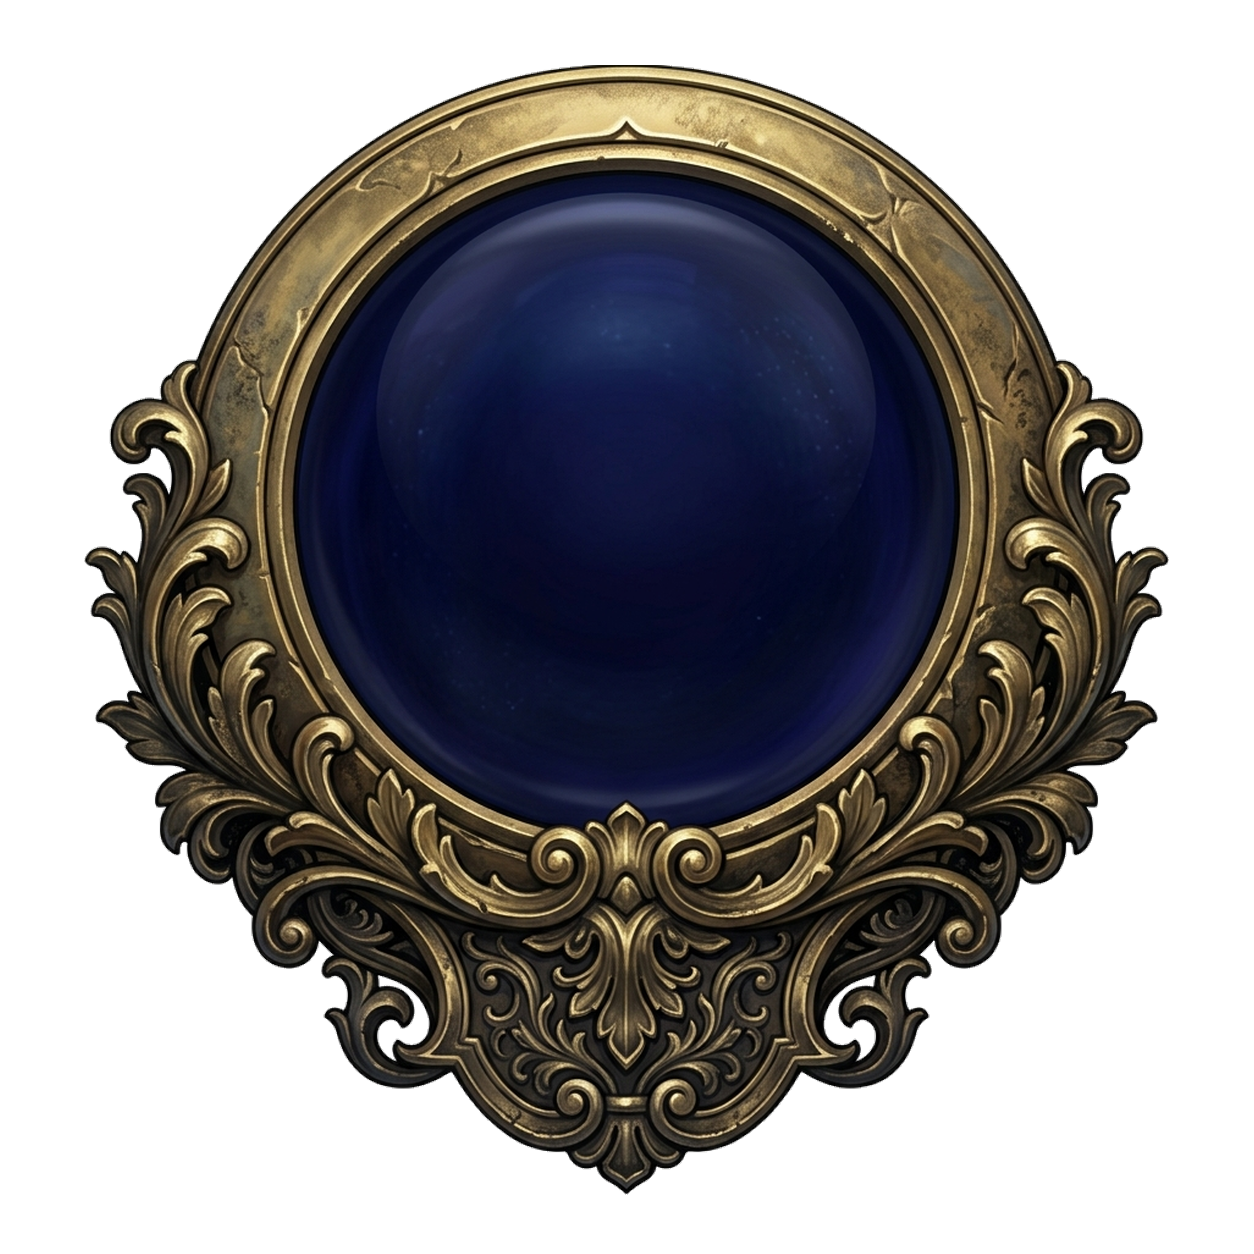
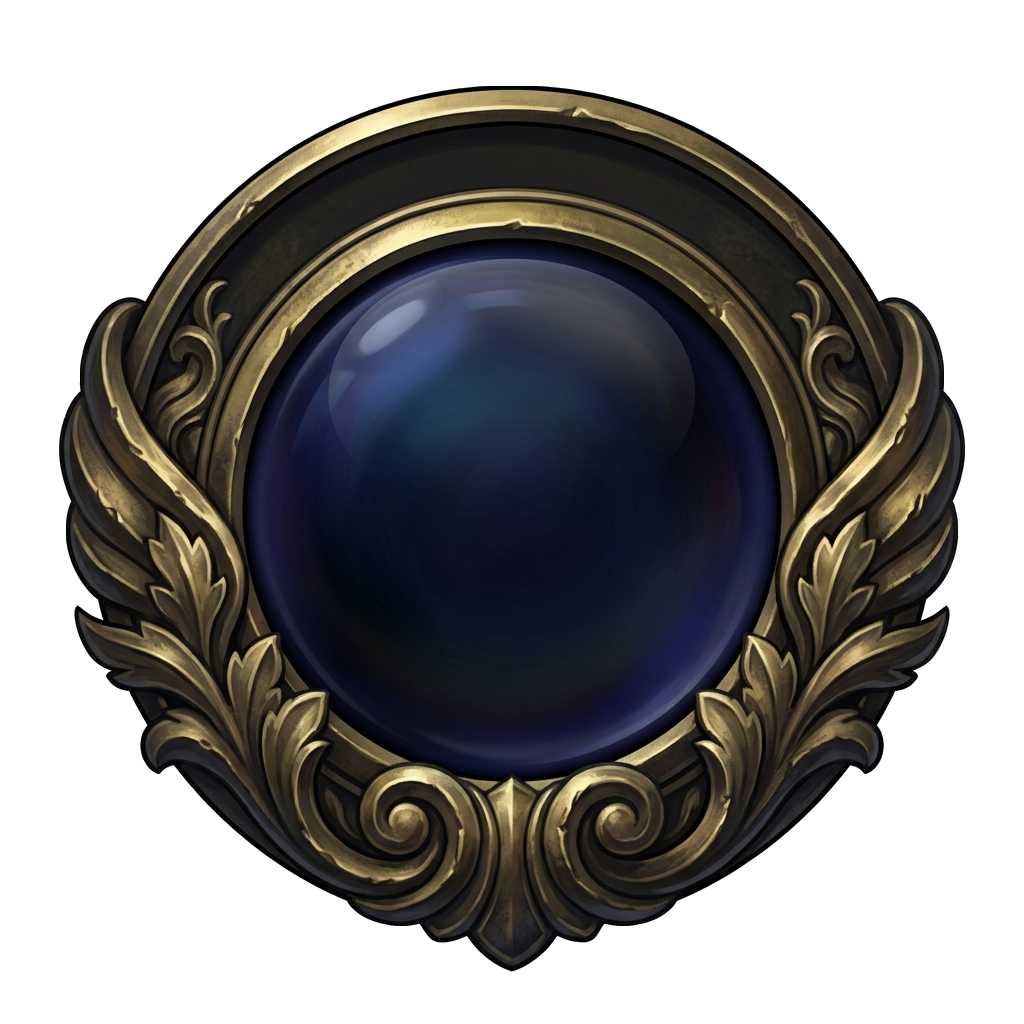
feat: FactionBarの装飾を改善し、バーの幅と高さを調整可能にした

diff --git a/demo/entries/FactionBarEntry.tsx b/demo/entries/FactionBarEntry.tsx
@@ -20,6 +20,8 @@ export default function FactionBarEntry() {
   const [backdrop, setBackdrop] = useState('dark')
   const [barHeight, setBarHeight] = useState(56)
   const [orbSize, setOrbSize] = useState(88)
+  const [fitContent, setFitContent] = useState(true)
+  const [barWidth, setBarWidth] = useState(720)
   const step = (delta: number) => {
     const next = (city + delta + cities.length) % cities.length
     setCity(next)
@@ -29,17 +31,23 @@ export default function FactionBarEntry() {
     stageClassName={`backdrop-${backdrop}`}
     stage={<div className="demo-top-left">
       <FactionBar faction={FACTIONS[factionId]} movable={movable} position={position} onPositionChange={setPosition}
-        style={{ '--faction-bar-height': `${barHeight}px`, '--faction-orb-size': `${orbSize}px` } as CSSProperties}
+        style={{ width: fitContent ? 'max-content' : barWidth, '--faction-bar-height': `${barHeight}px`, '--faction-orb-size': `${orbSize}px` } as CSSProperties}
         summary={withSummary ? { gold, goldForecast: forecast, production, troops } : undefined}
         cityName={cities[city]!} cityPosition={{ index: city, count: cities.length }} onPrevCity={() => step(-1)} onNextCity={() => step(1)} />
     </div>}
     controls={<>
       <h2>勢力の情報</h2>
       <p>左端の球をドラッグするとバー全体が動きます。球にフォーカスして矢印キーでも移動できます。Shiftで1pxずつ微調整、Homeで元の位置に戻ります。</p>
-      <label htmlFor="faction-bar-height">バー部分の高さ（px）</label>
-      <input id="faction-bar-height" type="number" min={52} max={160} value={barHeight} onChange={event => {
+      <label className="checkbox"><input type="checkbox" checked={fitContent} onChange={event => setFitContent(event.target.checked)} />内容に幅を合わせる</label>
+      <label htmlFor="faction-bar-width">バー全体の幅（px）</label>
+      <input id="faction-bar-width" type="number" min={240} max={1600} disabled={fitContent} value={barWidth} onChange={event => {
         const value = event.target.valueAsNumber
-        if (Number.isFinite(value)) setBarHeight(Math.max(52, Math.min(160, value)))
+        if (Number.isFinite(value)) setBarWidth(Math.max(240, Math.min(1600, value)))
+      }} />
+      <label htmlFor="faction-bar-height">バー部分の高さ（px）</label>
+      <input id="faction-bar-height" type="number" min={68} max={160} value={barHeight} onChange={event => {
+        const value = event.target.valueAsNumber
+        if (Number.isFinite(value)) setBarHeight(Math.max(68, Math.min(160, value)))
       }} />
       <label htmlFor="faction-orb-size">球の装飾サイズ（px）</label>
       <input id="faction-orb-size" type="number" min={64} max={128} value={orbSize} onChange={event => {

diff --git a/tests/faction-bar.spec.ts b/tests/faction-bar.spec.ts
@@ -31,9 +31,8 @@ test('navigation does not drag the bar, and its decorative image decodes', async
   const initial = await bar.boundingBox()
   await page.getByRole('button', { name: '次の都市', exact: true }).click()
   expect(await bar.boundingBox()).toEqual(initial)
-  const imageWidth = await bar.locator('.norden-faction-bar-ribbon').evaluate(async element => {
-    const source = getComputedStyle(element, '::before').borderImageSource
-    const url = source.match(/^url\(["']?(.*?)["']?\)$/)?.[1]
+  const imageWidth = await bar.locator('.norden-faction-bar-cap.is-right image').evaluate(async element => {
+    const url = element.getAttribute('href')
     if (!url) return 0
     const image = new Image()
     image.src = url
@@ -43,6 +42,33 @@ test('navigation does not drag the bar, and its decorative image decodes', async
   expect(imageWidth).toBeGreaterThan(0)
   await page.getByLabel('球をドラッグして移動する').uncheck()
   await expect(page.getByRole('button', { name: 'カルタ書院のバーを移動' })).toBeDisabled()
+})
+
+test('only the middle stretches when ribbon width changes, while both caps retain their proportions', async ({ page }) => {
+  await page.goto('/#faction-bar')
+  const bar = page.getByRole('group', { name: '勢力', exact: true })
+  const left = bar.locator('.norden-faction-bar-cap.is-left')
+  const right = bar.locator('.norden-faction-bar-cap.is-right')
+  await page.getByLabel('内容に幅を合わせる').uncheck()
+  for (const height of [56, 120]) {
+    await page.getByLabel('バー部分の高さ（px）').fill(String(height))
+    let firstMiddleWidth: number | undefined
+    for (const width of [500, 640, 800]) {
+      await page.getByLabel('バー全体の幅（px）').fill(String(width))
+      await expect(bar).toHaveCSS('width', `${width}px`)
+      const leftBounds = (await left.boundingBox())!
+      const rightBounds = (await right.boundingBox())!
+      expect(leftBounds.height).toBe(height)
+      expect(rightBounds.height).toBe(height)
+      expect(leftBounds.width / leftBounds.height).toBeCloseTo(102 / 333, 2)
+      expect(rightBounds.width / rightBounds.height).toBeCloseTo(313 / 333, 2)
+      const middle = (await bar.locator('.norden-faction-bar-middle').boundingBox())!
+      expect(leftBounds.x + leftBounds.width).toBeCloseTo(middle.x, 1)
+      expect(middle.x + middle.width).toBeCloseTo(rightBounds.x, 1)
+      if (firstMiddleWidth !== undefined) expect(middle.width).toBeGreaterThan(firstMiddleWidth)
+      else firstMiddleWidth = middle.width
+    }
+  }
 })
 
 test('ribbon height changes independently of the round orb and retains vertical content padding', async ({ page }) => {

diff --git a/src/components/hud/FactionBar.css b/src/components/hud/FactionBar.css
@@ -1,6 +1,6 @@
-/* The fixed-aspect orb overlaps a separate ribbon that can grow in either axis. */
+/* The round orb and the ribbon's end ornaments keep their own aspect ratios. */
 .norden-faction-bar {
-  --faction-bar-height: 56px;
+  --faction-bar-height: 68px;
   --faction-orb-size: 88px;
   position: relative;
   isolation: isolate;
@@ -18,21 +18,30 @@
 }
 .norden-faction-bar-ribbon {
   position: relative;
+  flex: 1;
   min-width: 0;
   margin-left: calc(var(--faction-orb-size) * .75);
-  padding: 0 24px 0 calc(var(--faction-orb-size) * .25 + 8px);
+  padding: 0 
+  calc(max(var(--faction-bar-height), 52px) * 313 / 333 + 8px)
+   0 
+  15px;
 }
-.norden-faction-bar-ribbon::before {
-  content: '';
+.norden-faction-bar-decoration {
   position: absolute;
-  /* Collapse the source's transparent margins into the outer 8px slices. */
-  inset: -6px 0;
+  inset: 0;
   z-index: -1;
-  border: solid transparent;
-  border-width: 8px 24px;
-  border-image: url('../../assets/ui/hud/faction-ribbon.png') 34% 10% 30% 10% fill / 8px 24px / 0 stretch;
+  display: flex;
+  align-items: stretch;
   pointer-events: none;
+  left: -15px;
 }
+.norden-faction-bar-cap { display: block; flex: none; height: 100%; width: auto; overflow: hidden; }
+.norden-faction-bar-cap.is-left { aspect-ratio: 102 / 333; }
+.norden-faction-bar-cap.is-right { aspect-ratio: 313 / 333;
+    right: 34px;
+    position: relative;
+ }
+.norden-faction-bar-middle { display: block; flex: 1; min-width: 0; width: 0; height: 100%; overflow: hidden; }
 .norden-faction-bar-content {
   box-sizing: border-box;
   display: flex;
@@ -76,8 +85,8 @@
 .norden-faction-bar-orb:focus-visible { outline: 2px solid #f4d987; outline-offset: -10px; }
 .norden-faction-bar-emblem {
   position: absolute;
-  left: 48%;
-  top: 48%;
+  left: 50%;
+  top: 50%;
   translate: -50% -50%;
   width: 42%;
   height: 46%;
@@ -104,7 +113,7 @@
   display: grid;
   grid-template: 'icon label' auto 'icon value' auto / auto auto;
   align-items: center;
-  column-gap: 6px;
+  column-gap: 10px;
   padding: 0 12px;
   white-space: nowrap;
   border-right: 1px solid #715737;

diff --git a/src/components/hud/FactionBar.tsx b/src/components/hud/FactionBar.tsx
@@ -3,6 +3,7 @@ import type { CSSProperties, KeyboardEvent, PointerEvent, ReactNode } from 'reac
 import iconGold from '../../assets/ui/icons/icon-gold.png'
 import iconProduction from '../../assets/ui/icons/icon-production.png'
 import iconTroops from '../../assets/ui/icons/icon-military.png'
+import ribbon from '../../assets/ui/hud/faction-ribbon.png'
 import type { FactionSummaryView, FactionView } from '../../screens/types'
 import './FactionBar.css'
 
@@ -27,6 +28,21 @@ export interface FactionBarProps {
 }
 
 const signed = (value: number) => `${value >= 0 ? '+' : '−'}${Math.abs(value).toLocaleString()}`
+
+/** Viewports into the supplied PNG: fixed-aspect caps and a stretchable plain middle. */
+function RibbonDecoration() {
+  return <div className="norden-faction-bar-decoration" aria-hidden="true">
+    <svg className="norden-faction-bar-cap is-left" viewBox="72 218 102 333" preserveAspectRatio="xMinYMid meet" focusable="false">
+      <image href={ribbon} width="1376" height="768" />
+    </svg>
+    <svg className="norden-faction-bar-middle" viewBox="174 218 850 333" preserveAspectRatio="none" focusable="false">
+      <image href={ribbon} width="1376" height="768" />
+    </svg>
+    <svg className="norden-faction-bar-cap is-right" viewBox="1024 218 313 333" preserveAspectRatio="xMaxYMid meet" focusable="false">
+      <image href={ribbon} width="1376" height="768" />
+    </svg>
+  </div>
+}
 
 function Stat({ label, icon, value, title, children }: { label: string; icon: string; value: number; title?: string; children?: ReactNode }) {
   return (
@@ -98,6 +114,7 @@ export default function FactionBar({ faction, summary, cityName, onPrevCity, onN
         <span className="norden-faction-bar-glass" aria-hidden="true" />
       </button>
       <div className="norden-faction-bar-ribbon">
+        <RibbonDecoration />
         <div className="norden-faction-bar-content">
           {summary && <>
             <Stat label="金" icon={iconGold} value={summary.gold}

diff --git a/docs/faction-bar-assets.md b/docs/faction-bar-assets.md
@@ -1,21 +1,29 @@
 # 勢力の球体バー
 
-現在の素材（組み込み `image_gen` で生成）:
+現在の素材は、ユーザーが Gemini で作成して差し替えた画像を使用する。以下の分割は差し替え後の画像に合わせている。
 
 - `src/assets/ui/hud/faction-orb-compact.png`: 上部の彫刻を球の縁に沿わせた、コンパクトな球の装飾。正方形のまま描画する。
-- `src/assets/ui/hud/faction-ribbon.png`: 球を含まない独立したバー。上下 34% / 30%、左右 10% の nine-slice で伸縮する。素材の上下の透明余白は外側の8pxにまとめ、内容領域の外へ出す。
+- `src/assets/ui/hud/faction-ribbon.png`: 1376×768px。透明な外余白を除き、左端・中央・右端を別々の表示領域に分ける。
+
+| 部分 | 元画像の範囲（x, y, 幅, 高さ） | 表示 |
+| --- | --- | --- |
+| 左端の金具 | 72, 218, 102, 333 | 縦横比を固定 |
+| 中央の帯 | 174, 218, 850, 333 | 幅に合わせて伸縮 |
+| 右端の彫刻 | 1024, 218, 313, 333 | 縦横比を固定 |
+
+SVG の viewBox は元のPNGを切り出して表示するためだけに使い、画像自体は加工しない。装飾の表示幅はバーの高さから元画像の比率で決まり、バーの幅を変えても中央だけが伸縮する。右端の彫刻の幅は内容の余白として確保する。`style.width` で幅を指定でき、カタログでは自動幅と指定幅を切り替えられる。
 
 `--faction-bar-height` はバー内容領域の最小高さ（既定 56px）、`--faction-orb-size` は球の装飾の縦横サイズ（既定 88px）。球とバーは別々に描画し、縦の中心を合わせる。内容には `padding-block: 10px` を設定する。球のエンブレムは `FactionBar.faction.emblem` を重ねる。
 
 参照素材: `src/assets/ui/hud/faction-frame.png`（旧構成の球とバーを一体化した画像）。
 
-## 球の生成プロンプト
+## 差し替え前の球の生成プロンプト（組み込み image_gen）
 
 ```text
 Edit reference game UI asset into ONE standalone compact orb mounting on a SQUARE transparent canvas. Reference is the existing approved blue crystal orb and gold acanthus style. Keep that same glossy dark sapphire spherical glass, blue highlights, intricate intertwined antique gold scrollwork, realistic painted metal and upper-left lighting. Remove the long horizontal bar completely. CRITICAL change: remove the tall upward-pointing gold leaf plume at the top. Reweave ONLY those upper leaves sideways snugly around the circle's upper rim. The uppermost ornament should extend only 2-3% of the canvas higher than the glass sphere's top. No tall stalk, spike, crown, or crest. Keep rich filigree at the sides and bottom. Entire mounting compact and close to circular. Center the TRUE ROUND glass face at (48%,48%) of the square, face diameter 64% of canvas. The whole mounting fits within 3% transparent margins; a little gold curling outward on the right may visually join a separate horizontal bar. The sphere's center stays empty and dark for a dynamic faction emblem. All outside space genuinely transparent. No text, no emblem, no symbols, no extra objects, no horizontal bar. Orthographic front view, no perspective.
 ```
 
-## バーの生成プロンプト
+## 差し替え前のバーの生成プロンプト（組み込み image_gen）
 
 ```text
 Create ONE standalone horizontal dark navy and antique gilded gold HUD ribbon for a medieval fantasy strategy game. Reference is material/style only: same dark midnight blue leather/enamel and realistic fine gilded metal bevels. Wide 3:1 rectangular composition, approximately1200x400, transparent outside. This is a scalable nine-slice UI asset: straight thin DOUBLE GOLD RAILS along the top and bottom, blank very dark navy middle occupying the whole rectangular area, a simple thin beveled left edge that will be hidden behind a separately composited orb, and a restrained small intertwined leaf curl end cap at the far right. The rectangle extends almost to all canvas edges, outer transparency margin no more than 2%. Top and bottom rails no thicker than 5% of the canvas height; large uninterrupted blank content field inside. The central 70% of width must have perfectly constant horizontal rail profiles, no ornaments crossing the content. Small right end cap fits inside rightmost 10% and does NOT extend above or below the rectangle. Fixed corners and rails must be suitable for CSS border-image nine-slice so the navy middle can stretch BOTH vertically and horizontally. NO orb, no sphere, no medallion, no big corner plumes, no text, no numbers, no icons, no buttons, no watermark, no rendered checkerboard. Orthographic front view. True transparent PNG background outside the ribbon.
